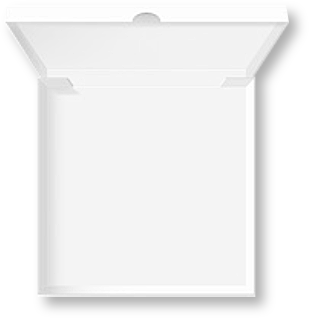
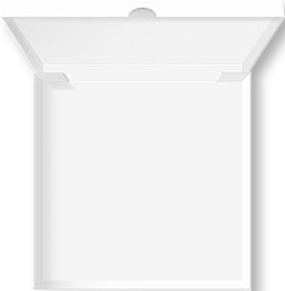
fix: basket sizes

Changed region(s): [[0.0, 0.0, 1.0, 1.0]]

diff --git a/2_layout/frontend-pizza/styles/main.less b/2_layout/frontend-pizza/styles/main.less
@@ -455,6 +455,7 @@
     flex-basis: 25%;
 }
 .basket {
+    max-width: 285px;
     background-image: url("../images/basket.png");
     background-repeat: no-repeat;
     background-position: center;
@@ -462,6 +463,7 @@
     height: 300px;
     display: flex;
     flex-direction: column;
+    align-items: center;
     position: sticky;
     top: 15px;
 
@@ -478,9 +480,10 @@
         flex-direction: column;
         justify-content: flex-start;
         align-items: center;
+        width: 181px;
     }
     &__item {
-        width: 63%;
+        // width: 63%;
         min-height: 38px;
         display: flex;
         align-items: center;
